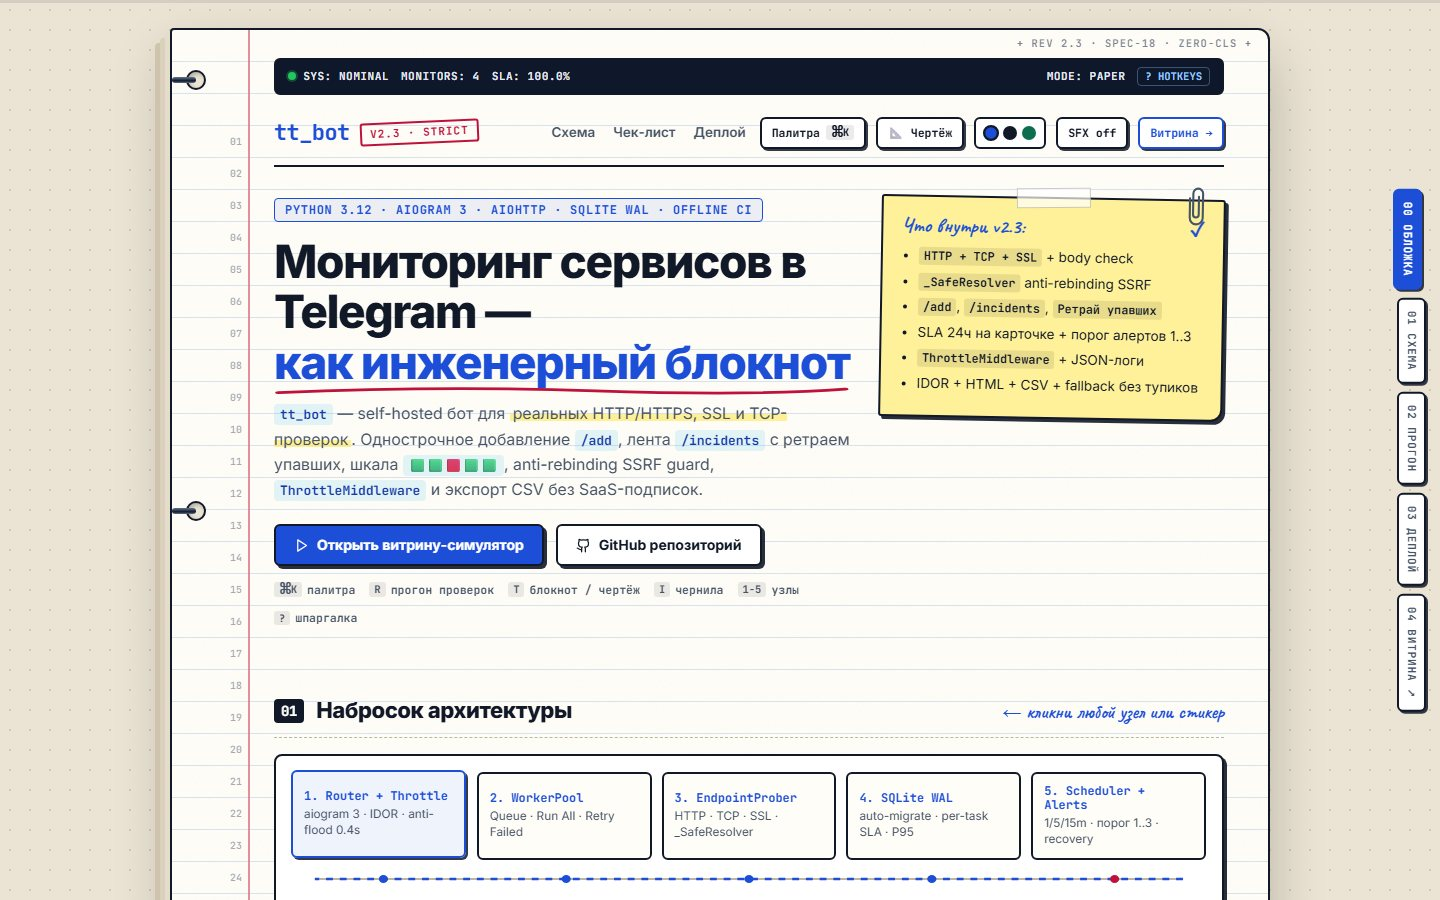
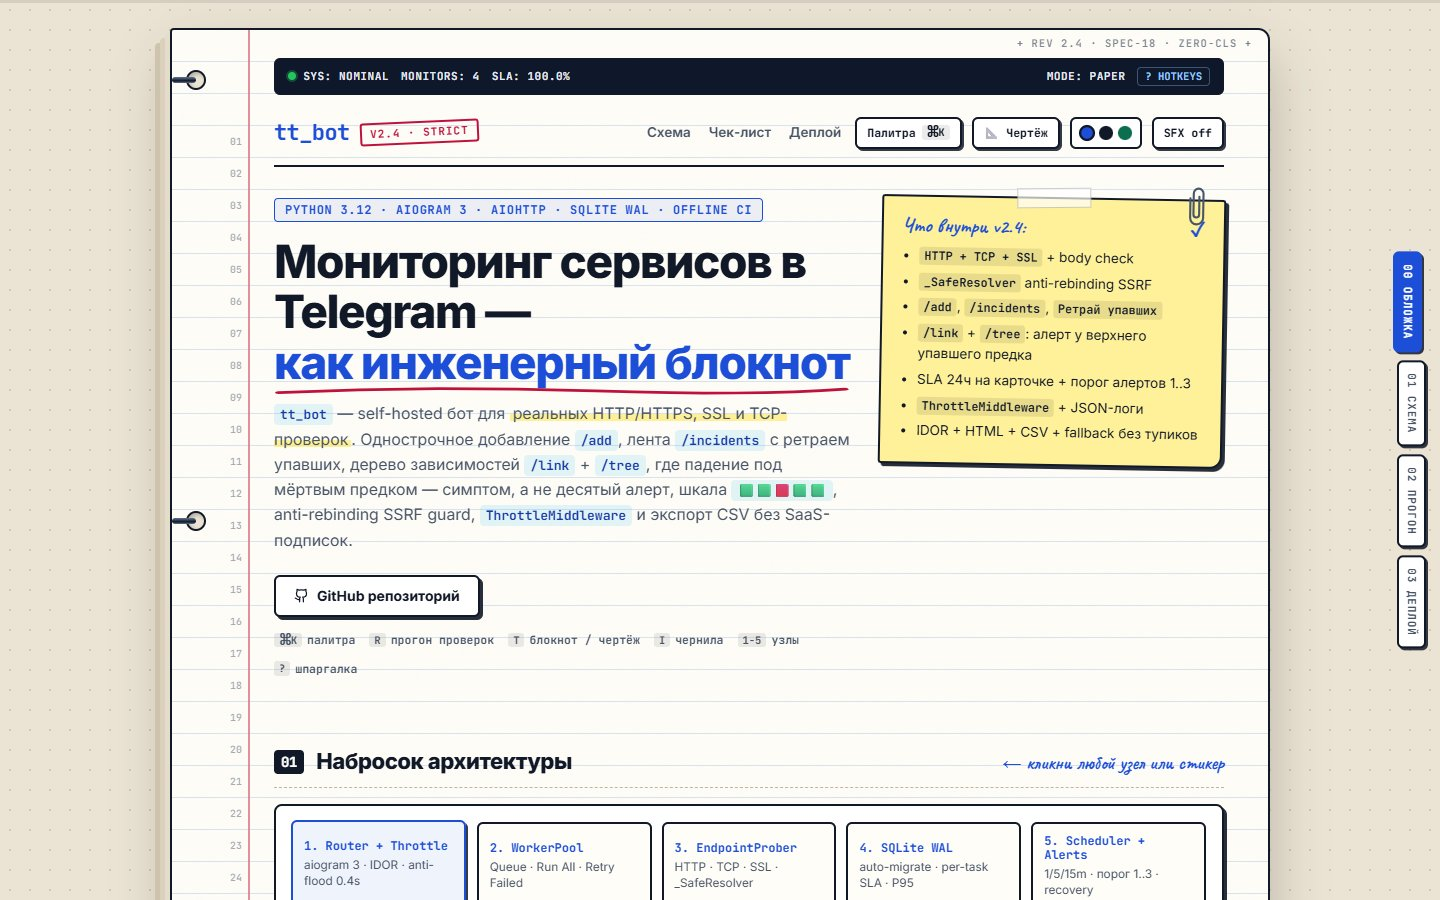
fix(docs): re-render the README proof shots and gate binary provenance (#32)
docs/screenshots/*.jpg were two releases behind and one deleted page
behind: they still showed REV 2.3, "Что внутри v2.3", an "Открыть
витрину-симулятор" CTA and a 04 ВИТРИНА rail tab that the landing lost
in 92ac9e021aa8 (docs: remove duplicate showcase page). The README is
the first thing a visitor reads, so the shots advertised a surface that
no longer exists. They are now rendered from the merged
docs/index.html: 1440x900 for home, the same viewport scrolled to
#checklist for content, 390x844 at scale 2 for mobile, JPEG quality 85.

Pixels cannot be asserted, so the root cause - binary proof with no
link back to its text source - gets a gate instead of a habit.
docs/proof-manifest.json records, per rendered asset, the source file,
the exact render command and the git-blob hash of that source at render
time; test_binary_proof_assets_match_their_text_sources recomputes the
hash and fails if it differs. It covers the three screenshots and the
og-card PNG, and it refuses an empty manifest, so it cannot pass by
checking nothing. Editing docs/index.html or docs/og-card.html without
re-rendering now turns CI red instead of shipping a stale preview.

diff --git a/tests/test_probes.py b/tests/test_probes.py
@@ -1,4 +1,6 @@
 import asyncio
+import hashlib
+import json
 import re
 import socket
 import sys
@@ -48,6 +50,26 @@ def test_parse_cert_days_left_ignores_locale_bound_strptime(monkeypatch):
     assert parse_cert_days_left("Jan  5 00:00:00 2035 GMT") == expected
     assert parse_cert_days_left("Jan 5 00:00:00 2035 GMT") == expected
     assert parse_cert_days_left("Jan  5 00:00:00 2020 GMT") < 0
+
+
+def test_binary_proof_assets_match_their_text_sources():
+    """PNG и JPEG гейтом не читаются, поэтому манифест хранит git-blob хэш HTML, из которого их рендерили."""
+    root = Path(__file__).resolve().parents[1]
+    manifest = json.loads(
+        (root / "docs" / "proof-manifest.json").read_text(encoding="utf-8")
+    )
+    assert manifest["assets"], "манифест пуст — гейт ничего не проверяет"
+
+    for asset in manifest["assets"]:
+        source = root / asset["source"]
+        digest = hashlib.sha1(
+            b"blob %d\0" % source.stat().st_size + source.read_bytes()
+        )
+        assert (root / asset["file"]).is_file(), asset["file"]
+        assert digest.hexdigest() == asset["source_blob"], (
+            asset["file"],
+            asset["source"],
+        )
 
 
 def test_prober_version_is_one_constant_shared_with_docs():

diff --git a/docs/DESIGN.md b/docs/DESIGN.md
@@ -12,4 +12,4 @@
 - **Клавиатурная навигация**: `⌘K` / `Ctrl+K` открывает Command Palette; `R` — прогон проверок, `T` — переключение темы, `I` — смена чернил, `Esc` — закрытие модалок.
 - **Zero-CLS и `tabular-nums`**: все счётчики SLA, P50, P95 и задержек используют `font-variant-numeric: tabular-nums`.
 - **Обратная связь**: стек тактильных тостов, кликабельные диагностические карточки строк и график задержки с линией SLA `100 мс` и hover-точками.
-- **SEO & Accessibility**: чистая статика без бандлера, `prefers-reduced-motion: reduce`, `:focus-visible`, один `<h1>` на страницу, JSON-LD `SoftwareApplication` и карточка `docs/og-card.png` (1200×630). Её исходник — `docs/og-card.html` с `noindex`; рендер: `chrome --headless=new --hide-scrollbars --window-size=1200,630 --screenshot=docs/og-card.png docs/og-card.html`. Штампы обеих витрин сверяет `test_landing_page_version_claims_match_the_bot`, поэтому PNG не может отстать от релиза незаметно.
+- **SEO & Accessibility**: чистая статика без бандлера, `prefers-reduced-motion: reduce`, `:focus-visible`, один `<h1>` на страницу, JSON-LD `SoftwareApplication` и карточка `docs/og-card.png` (1200×630). Её исходник — `docs/og-card.html` с `noindex`; рендер: `chrome --headless=new --hide-scrollbars --window-size=1200,630 --screenshot=docs/og-card.png docs/og-card.html`. Штампы обеих витрин сверяет `test_landing_page_version_claims_match_the_bot`, поэтому PNG не может отстать от релиза незаметно. Скриншоты README (`docs/screenshots/*.jpg`) рендерятся из `docs/index.html` тем же способом: `playwright` + Chromium, вьюпорты `1440×900` и `390×844 @2`, JPEG quality 85. Провенанс всех бинарных витрин закрепляет `test_binary_proof_assets_match_their_text_sources` по `docs/proof-manifest.json`: правка HTML без перерендера картинки ломает CI.

diff --git a/CHANGELOG.md b/CHANGELOG.md
@@ -55,6 +55,12 @@
   а это именно то, что видно в превью ссылки в Telegram и Twitter. У карточки появился
   исходник `docs/og-card.html` (`noindex`, команда рендера в комментарии и в `docs/DESIGN.md`),
   он же закрыт тем же гейтом по трём штампам, а в список фич встал `/link` + `/tree`.
+- **Скриншоты README перестали быть недоказуемыми.** `docs/screenshots/*.jpg` показывали
+  прошлую витрину: `REV 2.3`, «Что внутри v2.3» и кнопку «Открыть витрину-симулятор»,
+  которой на сайте нет с `docs: remove duplicate showcase page`. Картинки перерендерены с
+  текущего `docs/index.html`, а их провенанс закрепил
+  `test_binary_proof_assets_match_their_text_sources` по `docs/proof-manifest.json`:
+  правка HTML без перерендера бинарной витрины теперь красит CI, а не превью ссылки.
 
 ### Changed
 - Проект называется чат-ops монитором, а не «Endpoint & Task Monitor»: заголовки
